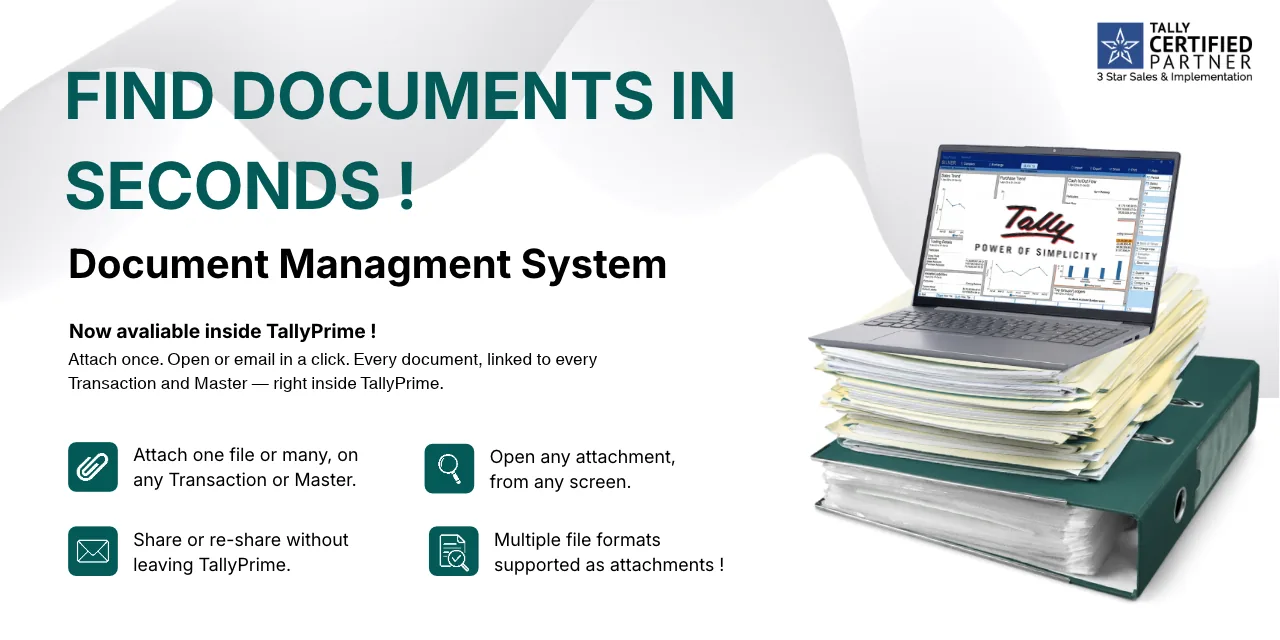
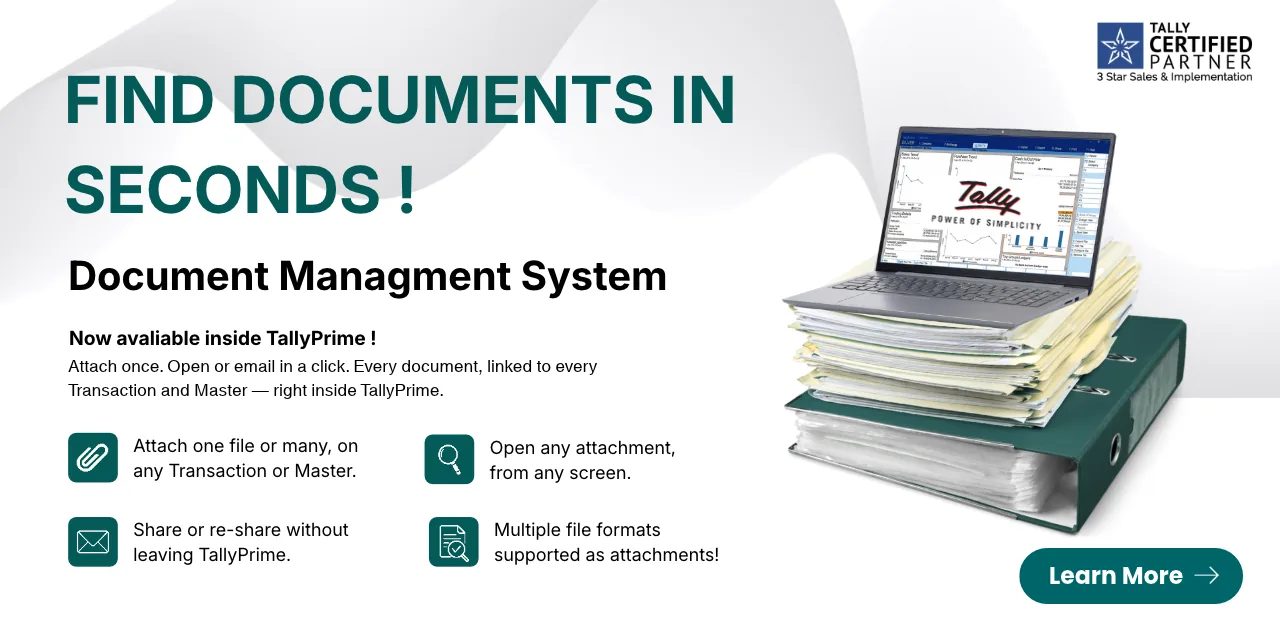
fix(popup): use ev.png greeting image, prevent same-session repeat, remove old assets

diff --git a/app/components/GreetingPopup.tsx b/app/components/GreetingPopup.tsx
@@ -1,7 +1,7 @@
 'use client';
 
 // CHANGE: 2026-11-16 — the Diwali greeting card became the general greeting card.
-// Artwork: public/er.png (1280x640, 2:1, owner-supplied) via the pre-encoded
+// Artwork: public/ev.png (1280x640, 2:1, owner-supplied) via the pre-encoded
 // public/greeting-popup.webp. No "Diwali" wording anywhere in the UI.
 //
 // TIMING (owner, 2026-11-16):
@@ -20,7 +20,7 @@
 //      app/(site)/layout.tsx
 //   4. delete the `buildGreetingPreloadScript` import and the `<script id="greeting-preload">`
 //      line in app/layout.tsx
-// Optionally delete public/greeting-popup.webp. public/er.png is the owner's master and may be
+// Optionally delete public/greeting-popup.webp. public/ev.png is the owner's master and may be
 // kept. The `svd_greeting_2026` flag can stay in visitors' localStorage; nothing reads it again.
 //
 // WHY A MODAL AND NOT A CORNER TOAST: the artwork is a greeting card. A card needs room on
@@ -38,9 +38,12 @@
 // underneath once the card is closed.
 
 import Image from 'next/image';
+import Link from 'next/link';
 import { useCallback, useEffect, useRef, useState } from 'react';
 import {
   GREETING_ART,
+  GREETING_CTA_HREF,
+  GREETING_CTA_LABEL,
   GREETING_LEGACY_KEY,
   GREETING_REVISIT_DELAY_MS,
   GREETING_SKIP_PATHS,
@@ -66,6 +69,14 @@ export default function GreetingPopup() {
   useEffect(() => {
     if (shownRef.current) return;
 
+    let sessionHandled = false;
+    try {
+      sessionHandled = window.sessionStorage.getItem(`${GREETING_STORAGE_KEY}_session`) === '1';
+    } catch {
+      // Ignore: without session storage we fall back to localStorage/ref guards.
+    }
+    if (sessionHandled) return;
+
     const path = window.location.pathname;
     if (GREETING_SKIP_PATHS.some((p) => path === p || path.startsWith(`${p}/`))) return;
 
@@ -80,6 +91,14 @@ export default function GreetingPopup() {
     }
     if (alreadySeen) return;
 
+    const markSessionHandled = () => {
+      try {
+        window.sessionStorage.setItem(`${GREETING_STORAGE_KEY}_session`, '1');
+      } catch {
+        // Ignore: failing to persist only means a repeat view in this tab is possible.
+      }
+    };
+
     const reveal = () => {
       // Re-check the skip list at REVEAL time, not only at mount: a returning visitor can
       // navigate onto the checkout or the demo cart during the 20 s countdown, and a blocking
@@ -87,6 +106,7 @@ export default function GreetingPopup() {
       // flag, so the visitor still gets the card on a later visit.
       const now = window.location.pathname;
       if (GREETING_SKIP_PATHS.some((p) => now === p || now.startsWith(`${p}/`))) return;
+      markSessionHandled();
       try {
         window.localStorage.setItem(GREETING_STORAGE_KEY, '1');
       } catch {
@@ -101,6 +121,7 @@ export default function GreetingPopup() {
       return;
     }
 
+    markSessionHandled();
     const timer = window.setTimeout(reveal, GREETING_REVISIT_DELAY_MS);
     return () => window.clearTimeout(timer);
   }, []);
@@ -160,20 +181,43 @@ export default function GreetingPopup() {
           overlay's `p-4` already eats 32 px at the narrowest breakpoint. */}
       <div
         onClick={(e) => e.stopPropagation()}
-        className="relative aspect-[2/1] w-[min(90vw,160vh,56rem)] animate-in zoom-in-95 duration-300 motion-reduce:animate-none"
+        className="relative w-[min(90vw,160vh,56rem)] animate-in zoom-in-95 duration-300 motion-reduce:animate-none"
       >
-        <Image
-          src={GREETING_ART.src}
-          alt={GREETING_ART.alt}
-          width={GREETING_ART.width}
-          height={GREETING_ART.height}
-          // Already the final, pre-sized WebP — see the note in lib/greeting-popup.ts. The
-          // <head> preload script requests the exact same URL, so there is one download, not two.
-          unoptimized
-          priority
-          draggable={false}
-          className="h-full w-full select-none rounded-2xl object-contain shadow-[0_24px_70px_-18px_rgba(0,0,0,0.75)] ring-1 ring-white/15"
-        />
+        {/* CHANGE: 2026-11-16 — the greeting card is now the launch notice for the DMS module.
+            The whole artwork is one link: clicking it navigates AND closes the card. The
+            backdrop and the ✕ still dismiss without leaving the page. The CTA pill sits
+            inside the link (pointer-events-none), so there is one click target, not two. */}
+        <Link
+          href={GREETING_CTA_HREF}
+          onClick={close}
+          aria-label={`${GREETING_CTA_LABEL}. Open the module page.`}
+          className="group relative block aspect-[2/1] w-full overflow-hidden rounded-2xl shadow-[0_24px_70px_-18px_rgba(0,0,0,0.75)] ring-1 ring-white/15 focus-visible:outline-2 focus-visible:outline-offset-2 focus-visible:outline-white"
+        >
+          <Image
+            src={GREETING_ART.src}
+            alt={GREETING_ART.alt}
+            width={GREETING_ART.width}
+            height={GREETING_ART.height}
+            // Already the final, pre-sized WebP — see the note in lib/greeting-popup.ts. The
+            // <head> preload script requests the exact same URL, so there is one download, not two.
+            unoptimized
+            priority
+            draggable={false}
+            className="h-full w-full select-none object-contain"
+          />
+
+          <span
+            aria-hidden="true"
+            className="pointer-events-none absolute inset-x-0 bottom-0 flex justify-center p-3 sm:p-4"
+          >
+            <span className="inline-flex items-center gap-2 rounded-full bg-[#006569] px-4 py-2 text-[11px] font-extrabold uppercase tracking-wider text-white shadow-lg ring-1 ring-white/25 transition-colors group-hover:bg-[#045A57]">
+              {GREETING_CTA_LABEL}
+              <svg viewBox="0 0 20 20" fill="currentColor" className="h-3.5 w-3.5" aria-hidden="true">
+                <path d="M4 10a1 1 0 0 1 1-1h7.586L9.293 5.707a1 1 0 1 1 1.414-1.414l4.999 5a1 1 0 0 1 0 1.414l-4.999 5a1 1 0 0 1-1.414-1.414L12.586 11H5a1 1 0 0 1-1-1z" />
+              </svg>
+            </span>
+          </span>
+        </Link>
 
         <button
           ref={closeRef}

diff --git a/lib/greeting-popup.ts b/lib/greeting-popup.ts
@@ -38,16 +38,25 @@ export const GREETING_REVISIT_DELAY_MS = 20_000;
 export const GREETING_SKIP_PATHS = ['/checkout', '/demo'] as const;
 
 /**
+ * CHANGE: 2026-11-16 — the greeting card is also the launch notice for the new Document
+ * Management module. Clicking the artwork (or its CTA pill) routes here and closes the card.
+ * One constant, so the component cannot drift from the module page route. Remove this pair
+ * together with the CTA markup in GreetingPopup.tsx if the card should stop linking.
+ */
+export const GREETING_CTA_HREF = '/modules/document-management';
+export const GREETING_CTA_LABEL = 'New: Document Management for TallyPrime';
+
+/**
  * ONE artwork for every width, pre-encoded once from the owner's PNG with sharp and committed
  * as a static file:
- *   greeting-popup.webp  1280x640 (2:1), 66 KB  <- public/er.png 1280x640, 540 KB
+ *   greeting-popup.webp  1280x640 (2:1), 65 KB  <- public/ev.png 1280x640
  * WHY A SINGLE 2:1 ASSET: the owner supplied one image, so the card keeps one box of the same
  * ratio and `object-contain` fits it whole — no crop, no stretch, no srcset pair to download.
  * WHY NOT next/image's optimizer: the card caps at 56rem (896 CSS px), so 1280 px is already
- * ~1.4x and re-encoding a 540 KB PNG on a cold request gains nothing; the file is served
+ * ~1.4x and re-encoding the source PNG on a cold request gains nothing; the file is served
  * `immutable, max-age=31536000` by the existing static-header rule.
- * REGENERATE (only if public/er.png is replaced):
- *   node -e "require('sharp')('public/er.png').resize(1280,640,{fit:'inside'}).webp({quality:82,effort:6}).toFile('public/greeting-popup.webp')"
+ * REGENERATE (only if public/ev.png is replaced):
+ *   node -e "require('sharp')('public/ev.png').resize(1280,640,{fit:'inside'}).webp({quality:82,effort:6}).toFile('public/greeting-popup.webp')"
  * Registered by the static-file cache rule only — no next.config change is needed for it.
  *
  * ALT TEXT: deliberately generic — it describes who is greeting, not the artwork, because the

diff --git a/docs/HISTORY.md b/docs/HISTORY.md
@@ -1565,3 +1565,13 @@ Ops note: `next start -p 3311` was stopped **by PID** (`60815` → `60816`), nev
 | **Why corrective** | The displayed "4.5 from 4 reviews" on the home screen was reported as a bug/unwanted presentation; this change removes that aggregate display from the homepage reviews section. |
 | **Docs/logs** | Updated `docs/HISTORY.md`, `daily logs/2026-11-16.md`, and `daily logs/excel logs.csv` (row 120) with today's corrective note. |
 | **Verification (requested)** | Build/typecheck/tests executed on request in this session (results recorded in the session report). No database writes were performed as part of this fix. |
+
+### 2026-11-16 (sixth session) — Greeting popup: use `ev.png`, fix same-session repeat, remove unused old images
+
+| Fact | Detail |
+| :--- | :--- |
+| **Report** | Owner: *"we have ev.png updated image, ensure that one is used and replace current image, both are same same and quality, and delete unused images old ones"* and *"fix issue when despite ones i saw a popup, after 20s i see that again in same session"*. |
+| **Image replacement** | Regenerated `public/greeting-popup.webp` from `public/ev.png` (1280×640, same 2:1 fit, WebP quality/effort unchanged: 82/6; output ~65 KB). `lib/greeting-popup.ts` and `app/components/GreetingPopup.tsx` comments/regen instructions now reference `ev.png` as the master source. `GREETING_ART.src` remains `/greeting-popup.webp` (no preload/component URL drift). |
+| **Same-session repeat fix** | `app/components/GreetingPopup.tsx`: added a per-tab session guard (`sessionStorage` key `${GREETING_STORAGE_KEY}_session`) so the popup decision is handled once per tab session. The guard is set when showing immediately (first visit) and when scheduling/revealing the delayed returning-visitor popup, preventing a second 20s-triggered appearance in the same session after the popup was already seen/handled. Existing localStorage flags and skip-path checks remain in place. |
+| **Deleted unused old images** | Removed `public/er.png`, `public/diwali-popup-square.webp`, and `public/diwali-popup-wide.webp` (no longer referenced by the greeting popup implementation). Kept `public/ev.png` (master) and `public/greeting-popup.webp` (served asset). |
+| **Verified** | Single-pass update: `sharp` conversion/metadata check for `ev.png`/generated WebP only; no build, dev server, typecheck, or `check:*` suite run. |

diff --git a/daily logs/2026-11-16.md b/daily logs/2026-11-16.md
@@ -173,3 +173,15 @@ Owner: *"review bug shows 4.5 from 4 reviews on homscreen remove it"*.
   - Kept the Google Reviews heading, review cards, per-card rating normalization, and marquee behavior.
 - **Docs updated:** `docs/HISTORY.md` (2026-11-16 fifth session), `daily logs/2026-11-16.md`, `daily logs/excel logs.csv` (row 120).
 - **Verification:** build/typecheck/test run requested in-session (results captured in the session report). No DB writes were made by this UI correction.
+
+---
+
+## Session 4 — Greeting popup updated to `ev.png`, same-session repeat fixed, old unused images removed
+
+Owner: *"we have ev.png updated image, ensure that one is used and replace current image, both are asame same and quality, and delete unused iamges old ones"* and *"also fix issue when despite ones i saw a popup , after 20s i see that again in same session"*.
+
+- **Image replacement:** regenerated `public/greeting-popup.webp` from `public/ev.png` (1280×640, 2:1, WebP quality 82, effort 6; ~65 KB) and kept `/greeting-popup.webp` as the served asset.
+- **Code/docs updates:** `lib/greeting-popup.ts` and `app/components/GreetingPopup.tsx` now reference `ev.png` as the master/regen source (no runtime URL change).
+- **Same-session repeat fix:** added a per-tab session guard in `app/components/GreetingPopup.tsx` using `sessionStorage` (`${GREETING_STORAGE_KEY}_session`) so the popup is handled once per tab session; prevents a delayed 20s reappearance after it was already shown/scheduled in the same session.
+- **Cleanup:** deleted unused old images `public/er.png`, `public/diwali-popup-square.webp`, `public/diwali-popup-wide.webp`. Kept `public/ev.png` (master) and `public/greeting-popup.webp`.
+- **Verification:** single-pass (`sharp` regeneration/metadata and source checks only); no build, dev server, typecheck, or `check:*` suite run. Docs/logs/CSV updated (row 121).
